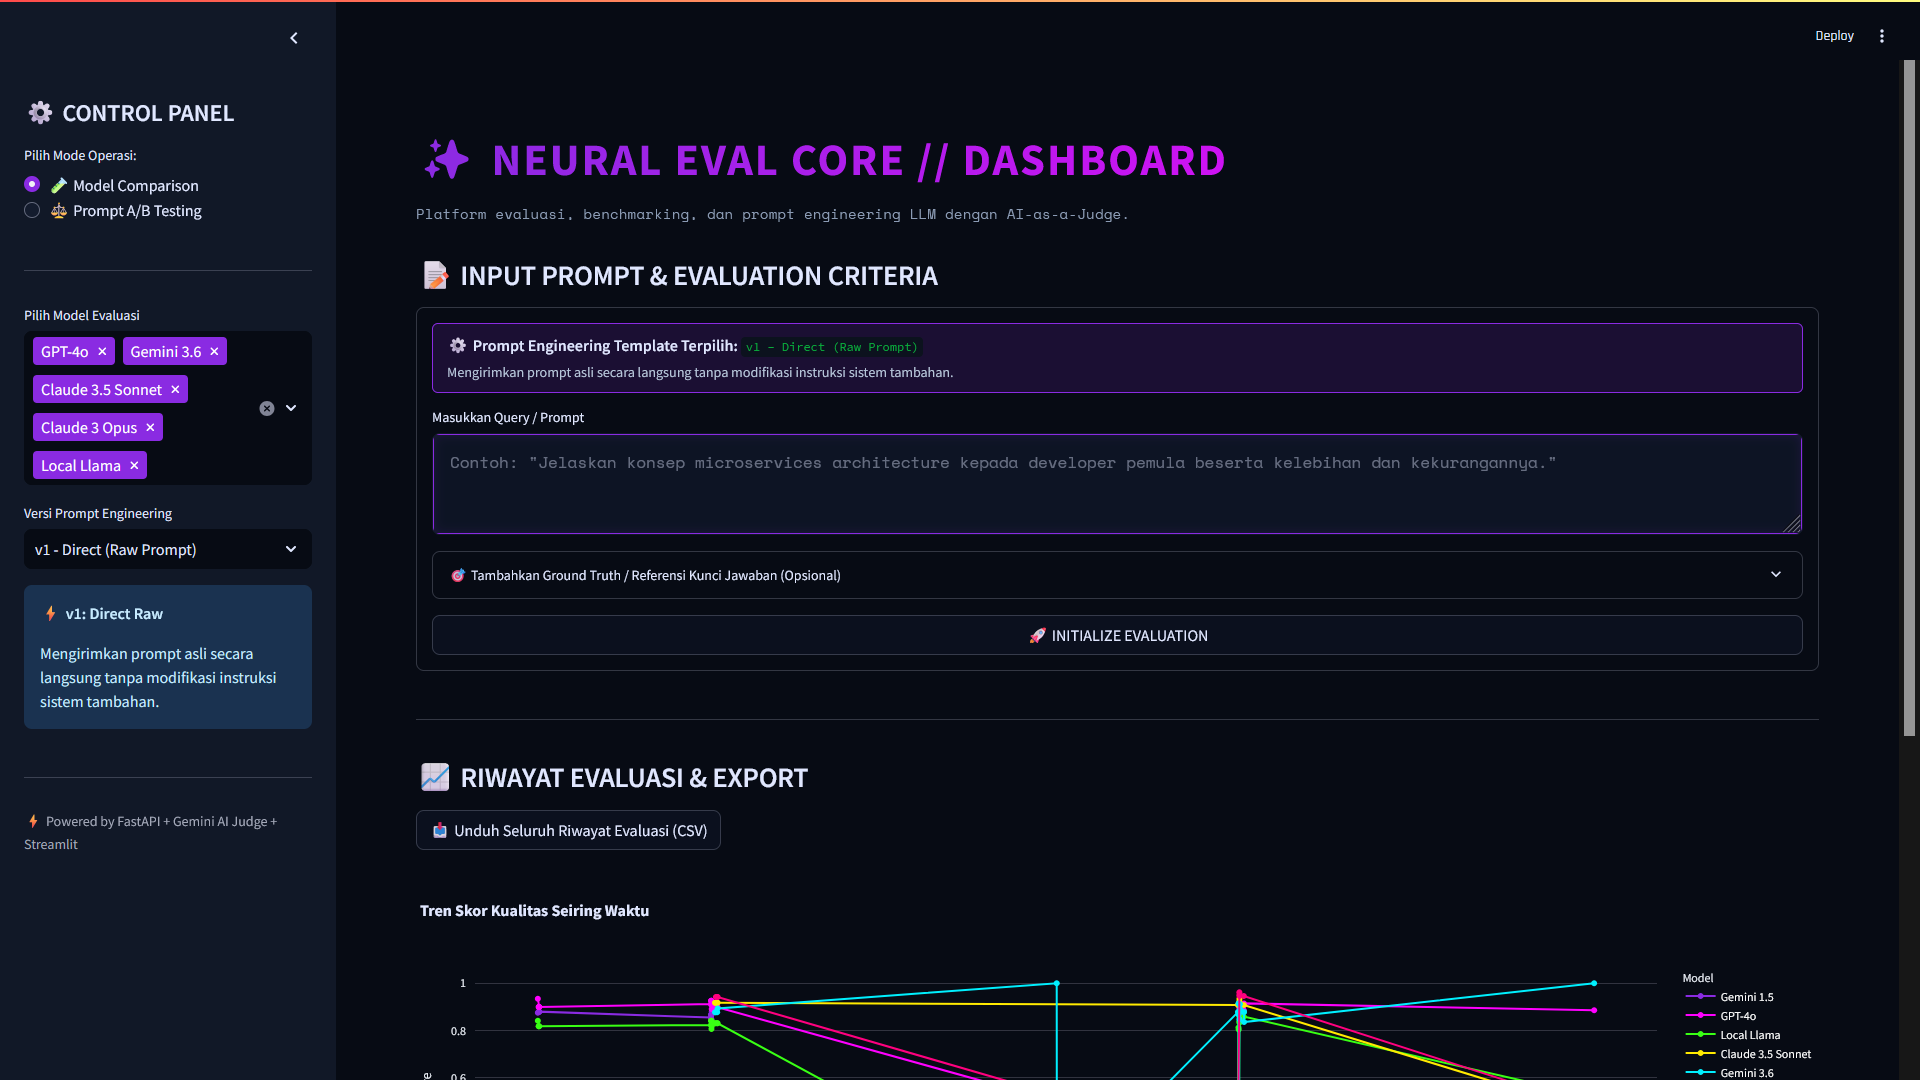
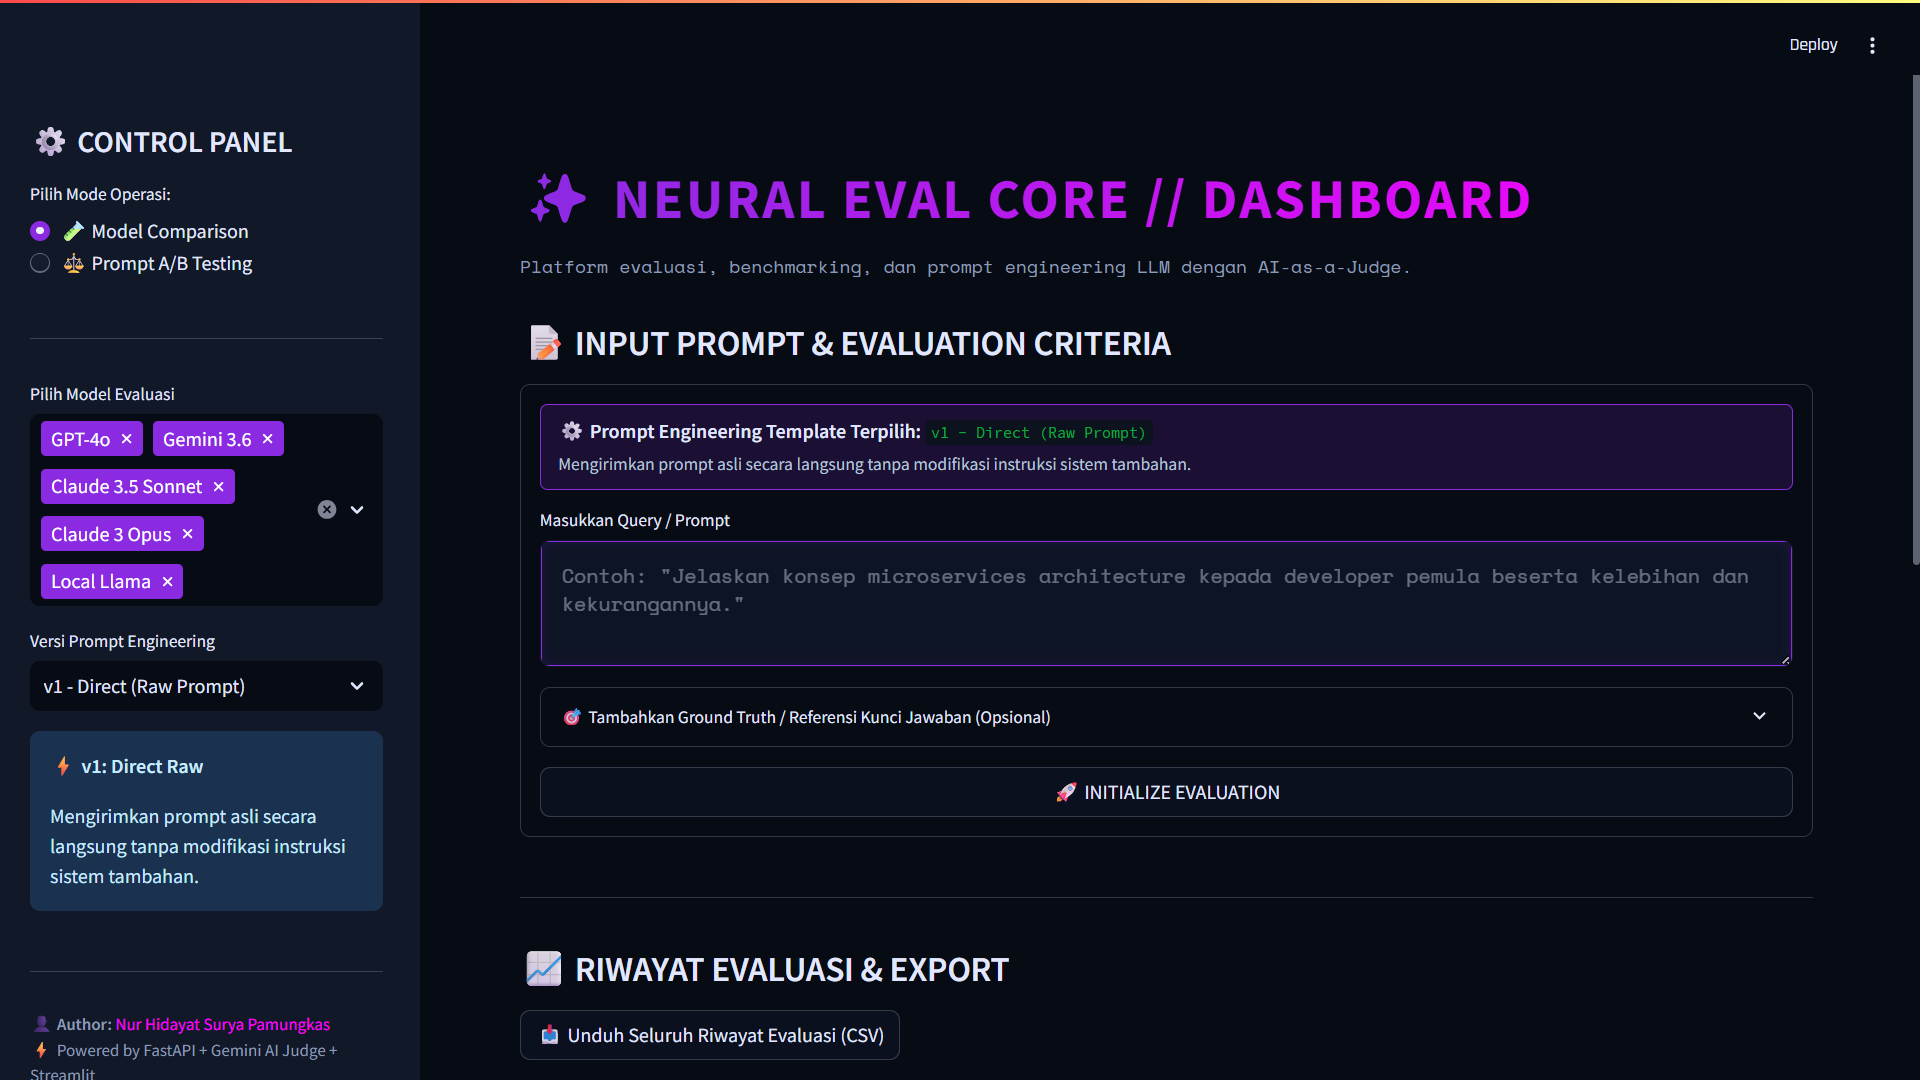
update project

diff --git a/src/data/projects.js b/src/data/projects.js
@@ -1,5 +1,39 @@
 export const predefinedProjects = [
   {
+    id: "nusa-asset-management",
+    Title: "Nusa Asset Management",
+    Description:
+      "An enterprise-grade Asset Management (EAM) system built with Next.js 16, React 19, TypeScript, and Tailwind CSS. Features multi-branch physical asset tracking, instant QR code generation, PSAK 16 straight-line depreciation, asset mutation workflows, and full PMO governance documentation (PMBOK 7th Edition).",
+    Img: "/nusa-asset-management.png",
+    TechStack: ["Next.js 16", "React 19", "TypeScript", "Tailwind CSS", "Framer Motion"],
+    Features: [
+      "Multi-branch enterprise inventory tracking across regional offices (Jakarta, Surabaya, Medan, Makassar)",
+      "Automated PSAK 16 Straight-Line depreciation engine and real-time book value auditing",
+      "Instant QR code tracking engine and SVG physical barcode/label generator",
+      "Inter-branch asset mutation & transfer lifecycle workflow with tiered approval validation",
+      "Comprehensive PMO governance framework conforming to PMBOK 7th Edition & Agile standards"
+    ],
+    Link: "https://nusa-asset-management.vercel.app",
+    Github: "https://github.com/suryapamungkas/nusa-asset-management",
+  },
+  {
+    id: "lexindonesia-legal-platform",
+    Title: "LexIndonesia",
+    Description:
+      "Indonesia’s premier integrated legal intelligence platform & regulatory compliance ecosystem modeled after Hukumonline. Features an indexed global law search engine with real-time enactment status, multi-tier RBAC (Free vs Pro), interactive legal research workspace, and a companion Chrome Extension (Manifest V3).",
+    Img: "/lexindonesia-legal-platform.png",
+    TechStack: ["JavaScript", "Vite", "Chrome Extension", "Tailwind CSS", "RegTech"],
+    Features: [
+      "Indexed multi-dimensional law search engine with keyword highlighting and real-time status indicators",
+      "Role-Based Access Control (RBAC) supporting Free and Pro Subscriber access tiers",
+      "Four specialized legal ecosystem catalogs: PRO Intelligence, SOLUSI Tech, INFO HUKUM, and EVENT",
+      "My Workspace legal research notebook with local autosave, annotation, and export tools",
+      "Companion Chrome Extension (Manifest V3) utilizing Side Panel API for side-by-side legal analysis"
+    ],
+    Link: "https://lexindonesia.vercel.app",
+    Github: "https://github.com/suryapamungkas/lexindonesia-legal-platform",
+  },
+  {
     id: "nusa-decarb",
     Title: "NusaDecarb",
     Description:

diff --git a/src/components/ProjectDetail.jsx b/src/components/ProjectDetail.jsx
@@ -20,6 +20,8 @@ import {
   Zap,
   Database,
   BarChart3,
+  Scale,
+  Puzzle,
 } from "lucide-react";
 import Swal from "sweetalert2";
 import { toSlug } from "../utils/slug";
@@ -28,6 +30,8 @@ import { predefinedProjects } from "../data/projects";
 const TECH_ICONS = {
   React: Globe,
   "React 19": Globe,
+  "Next.js": Globe,
+  "Next.js 16": Globe,
   TypeScript: Code,
   Vite: Cpu,
   Tailwind: Layout,
@@ -48,6 +52,10 @@ const TECH_ICONS = {
   SQLite: Database,
   "AI Analysis": BrainCircuit,
   Blockchain: Layers,
+  "Framer Motion": Sparkles,
+  "Chrome Extension": Puzzle,
+  RegTech: Scale,
+  LegalTech: Scale,
   default: Package,
 };
 

diff --git a/index.html b/index.html
@@ -4,7 +4,8 @@
   <!-- Basic -->
   <meta charset="UTF-8" />
   <meta name="viewport" content="width=device-width, initial-scale=1.0" />
-  <link rel="icon" type="image/jpeg" href="/Photo.jpg?v=2" />
+  <link rel="icon" type="image/jpeg" href="/formal-crop.jpg" />
+  <link rel="apple-touch-icon" href="/formal-crop.jpg" />
   <!-- preload Google Font -->
   <link rel="preconnect" href="https://fonts.googleapis.com">
   <link rel="preconnect" href="https://fonts.gstatic.com" crossorigin>

diff --git a/README.md b/README.md
@@ -1,7 +1,7 @@
 # Surya Pamungkas — Personal Portfolio 🚀
 
 <div align="center">
-  <img src="public/PP-Crop.png" alt="Surya Pamungkas" width="120" style="border-radius: 50%;" />
+  <img src="public/formal-crop.jpg" alt="Surya Pamungkas" width="120" style="border-radius: 50%;" />
   
   <h3>Full Stack Developer & AI Engineer Enthusiast</h3>
 
@@ -34,6 +34,8 @@ A modern, highly polished, and responsive personal portfolio crafted with **Reac
 ### 🌟 Key Highlights
 - **Premium Minimalist Dark Aesthetic:** Built using custom glassmorphism layers (`bg-white/5`, `border-white/10`, and smooth silver sheen gradients).
 - **Featured Projects:**
+  - **Nusa Asset Management:** Enterprise Asset Management (EAM) system built with Next.js 16, React 19, TypeScript, and Tailwind CSS. Features QR code tracking, branch mutations, PSAK 16 straight-line depreciation, and full PMO governance documentation (PMBOK 7th Edition).
+  - **LexIndonesia:** Indonesia’s premier integrated legal intelligence platform & regulatory compliance ecosystem modeled after Hukumonline, featuring indexed law search, multi-tier RBAC, My Workspace, and a companion Chrome Extension (MV3).
   - **NusaDecarb:** Enterprise Green-Tech & ESG Advisory Platform for industrial decarbonization towards Indonesia's Net Zero Emission 2060, built with React 19, TypeScript, and Tailwind CSS.
   - **LLM Evaluation Dashboard:** Modern LLM evaluation and prompt engineering dashboard featuring parallel benchmarking, LLM-as-a-Judge grading, Ground Truth verification, and Prompt A/B testing with FastAPI, Streamlit, and Docker.
   - **smart-vegetable-detector:** Client-side AI Progressive Web App (PWA) featuring real-time vegetable classification with TensorFlow.js and on-device nutritional fun fact generation using Transformers.js (LaMini-Flan-T5).
@@ -66,6 +68,7 @@ surya-portfolio/
 ├── public/                 # Static assets, certificate images & project screenshots
 ├── src/
 │   ├── components/         # Reusable UI components (Navbar, Background, Cards, etc.)
+│   ├── data/               # Centralized project datasets & configurations
 │   ├── Pages/              # Page views (Home, About, Portfolio, Contact, etc.)
 │   ├── utils/              # Utility functions & helper scripts
 │   ├── App.jsx             # Application routes & layouts
